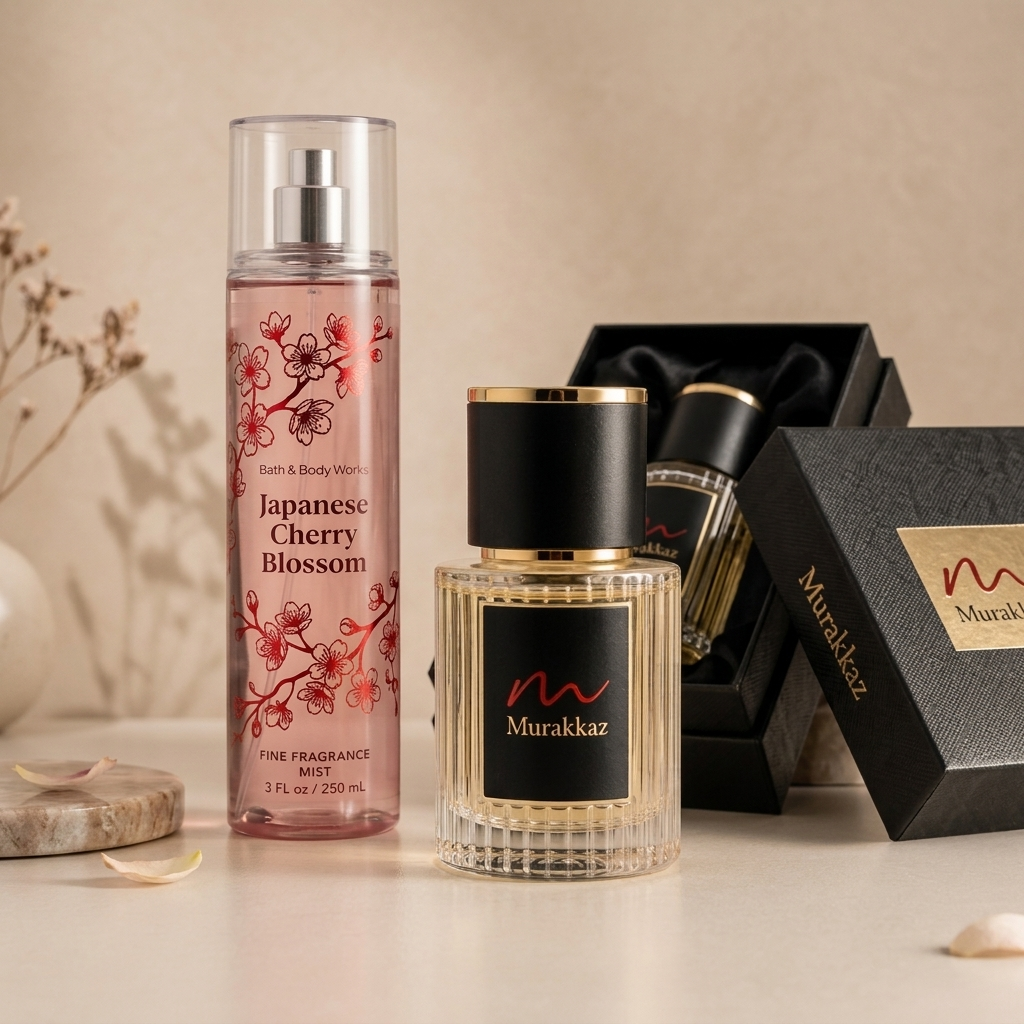
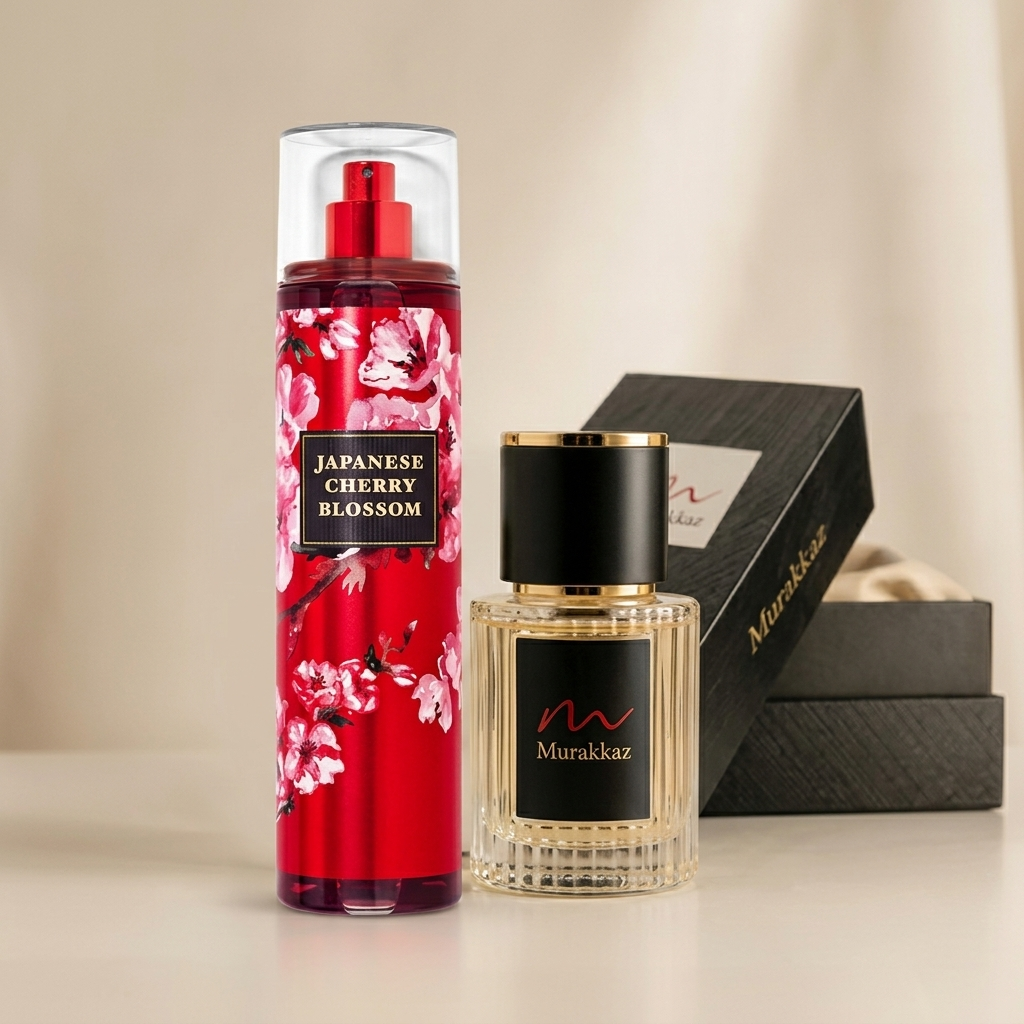
fix(catalog): update authentic Bath & Body Works Japanese Cherry Blossom master photo (v5)

diff --git a/App/src/app/data/products.ts b/App/src/app/data/products.ts
@@ -1573,7 +1573,7 @@ export const luxuryProducts: Product[] = [
     "priceVal": 300,
     "originalPriceVal": 400,
     "volume": "6ml - 50ml",
-    "image": "/images/products/japanese_cherry_blossom_v3.jpg",
+    "image": "/images/products/japanese_cherry_blossom_v5.jpg",
     "family": "FLORAL",
     "gender": "WOMEN",
     "occasion": "Romantic & Daytime",
